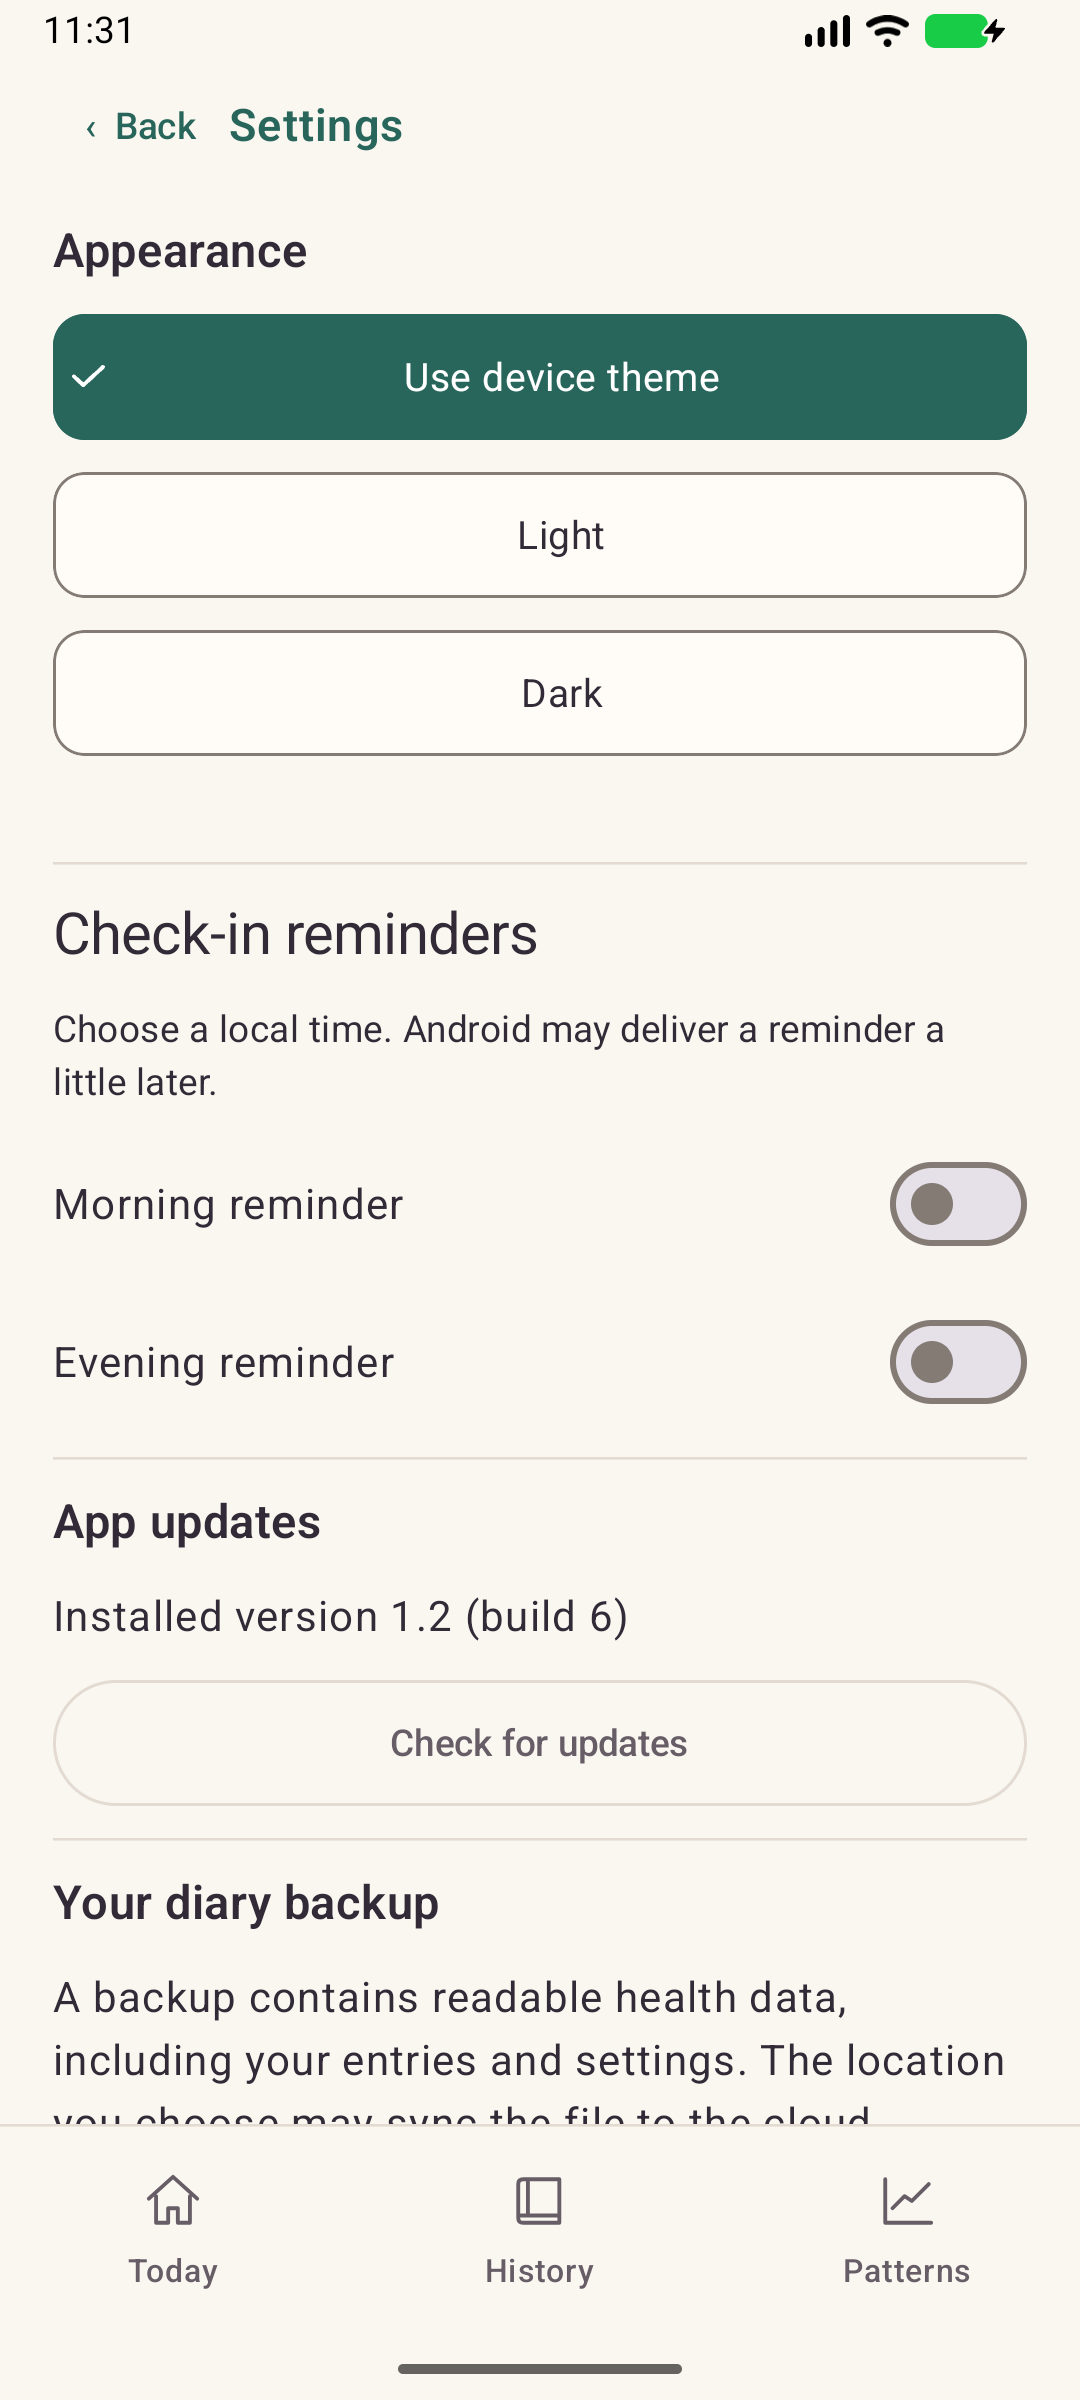
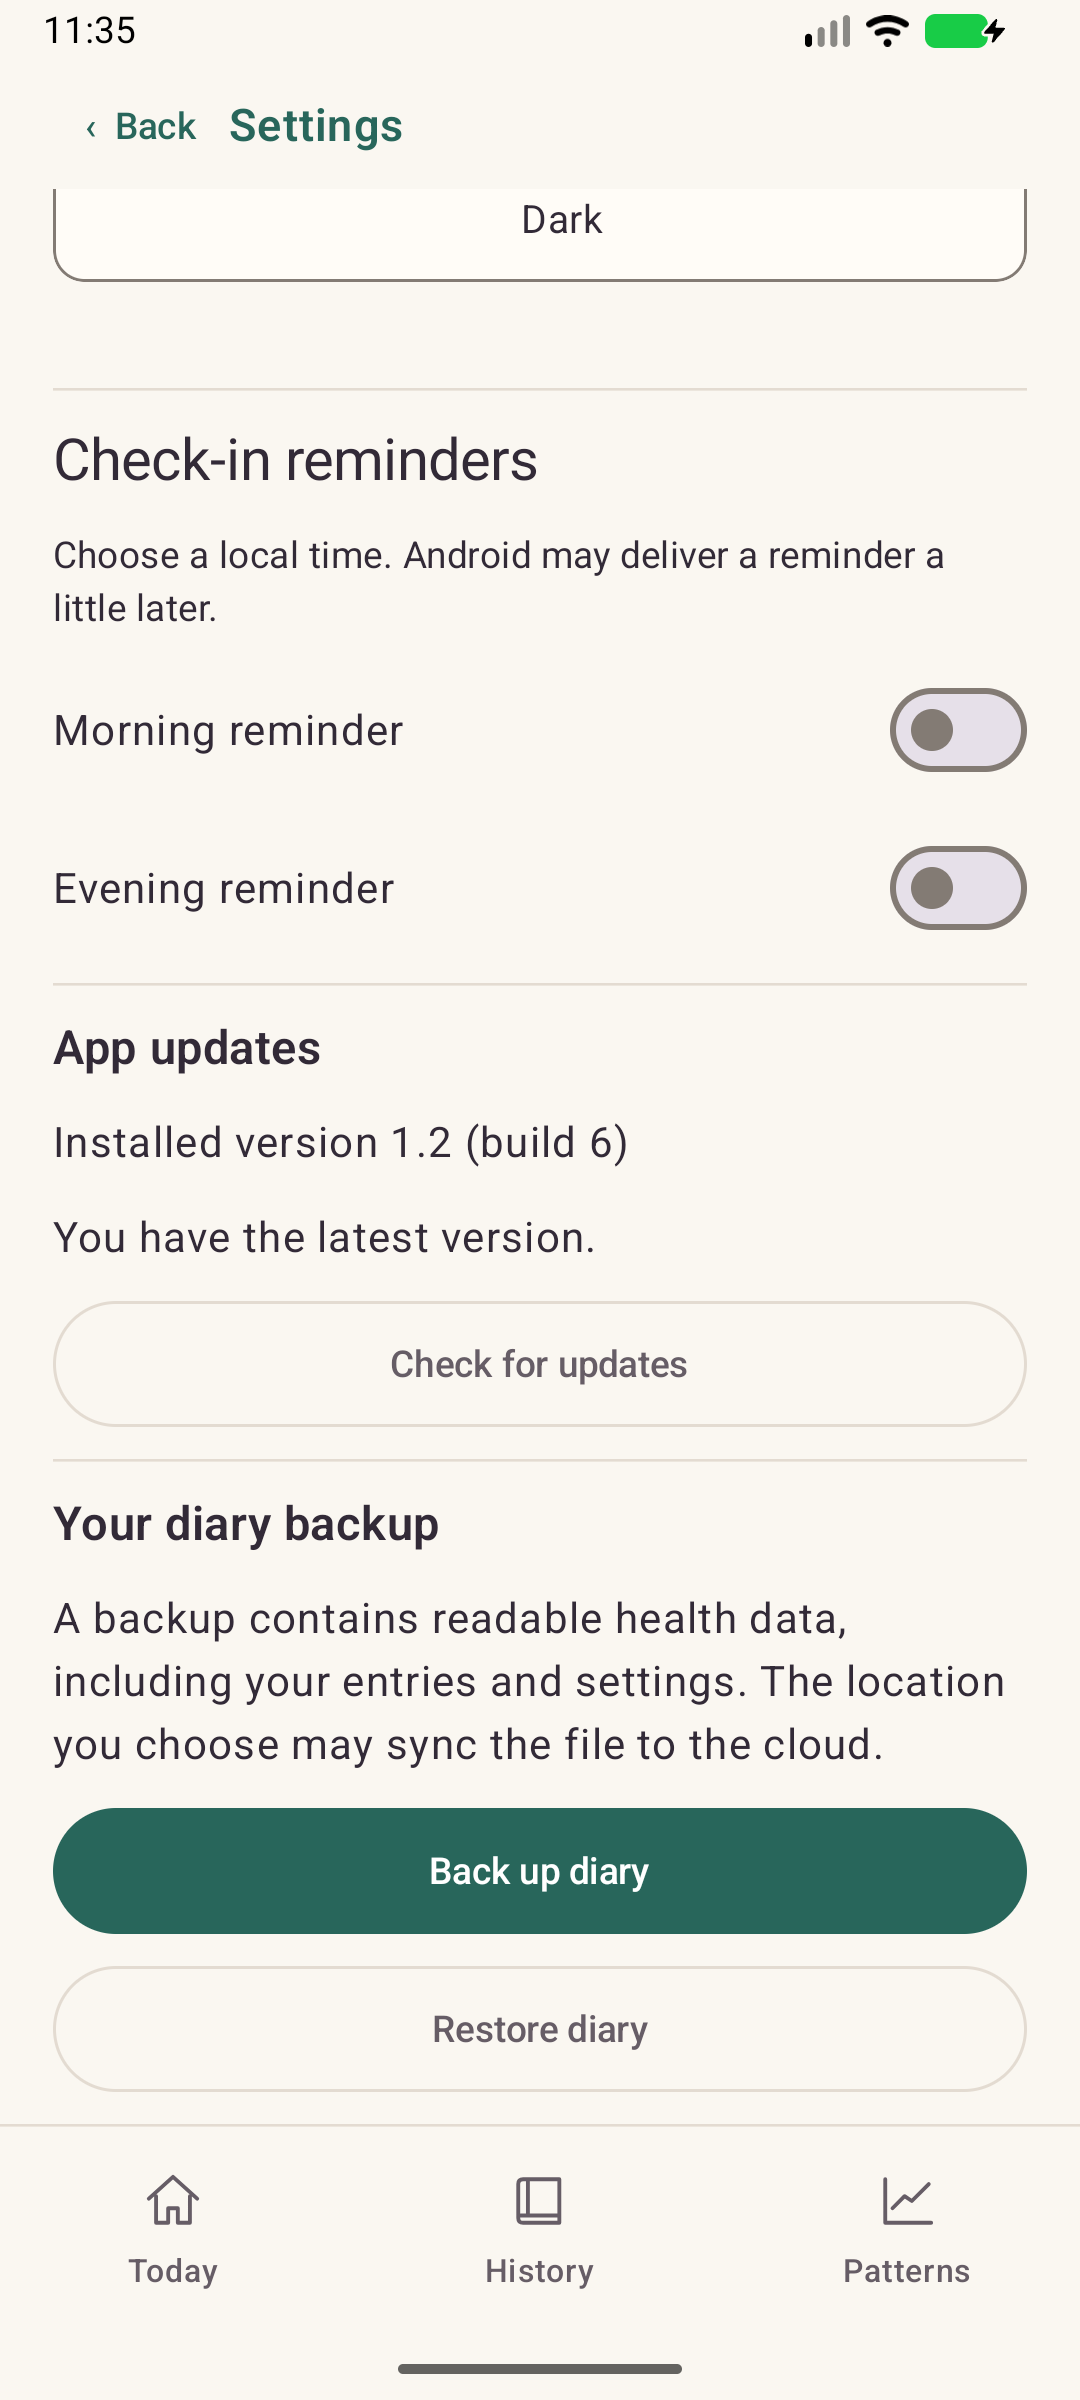
Document verified public update and running screens

diff --git a/RELEASE.md b/RELEASE.md
@@ -37,6 +37,8 @@ gh release create "v$version" "release/ChilliBook-$version.apk" --verify-tag --g
 
 Evening groups work, socialising and household answers with the day's activity entries. Add one activity, choose its tags and optionally add duration, effort, demands or personal value. Edit an entry directly from the same screen. The data format is compatible with 1.1.
 
+On an isolated Android 17 emulator, a same-key rehearsal build fetched the public 1.2 release, verified the APK, opened the Android installer and updated in place. The installed app then reported it was current. Comparing the complete export to the original 1.1 fixture matched all 354 days, 673 check-ins, 154 activities, three crash episodes and preferences. A separate activity test added two entries, edited one and confirmed both retained their IDs. The inline editor was inspected at ordinary and 200% text sizes.
+
 ## Version 1.1 update
 
 The 1.0 → 1.1 signed upgrade retained 354 day records, 673 check-ins, 154 activities, three crash episodes and existing preferences on an isolated Android 17 emulator. All fields matched after the update. Both reminder times start off. Choose morning and evening times independently in Settings. Delivery follows Android’s inexact alarm scheduling.

diff --git a/README.md b/README.md
@@ -4,6 +4,8 @@ ChilliBook is an Android diary for people living with ME/CFS. A single answer sa
 
 [Download the signed APK](https://github.com/mikeritch/ChilliBook/releases/latest) · [Installation and release guide](RELEASE.md)
 
+![Evening check-in, activity editor and update settings on an Android emulator](verification/1.2/running-screens.png)
+
 ## Privacy and updates
 
 Your diary lives in a local Room database. Check-ins, charts and reminders work offline. ChilliBook contacts GitHub when you choose to check for or download a release. GitHub receives ordinary download request information such as the IP address. Diary entries stay on the phone unless you explicitly export them. An exported JSON file contains readable health data.
